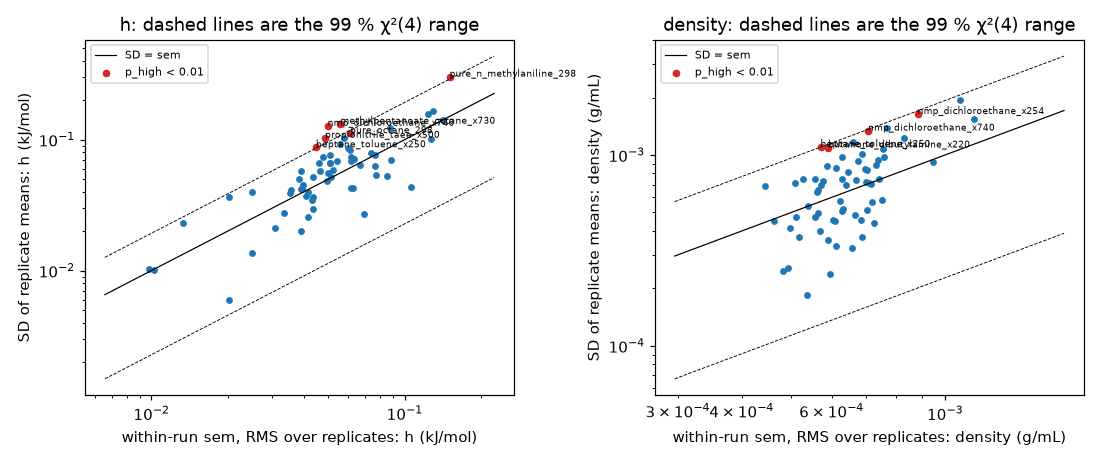
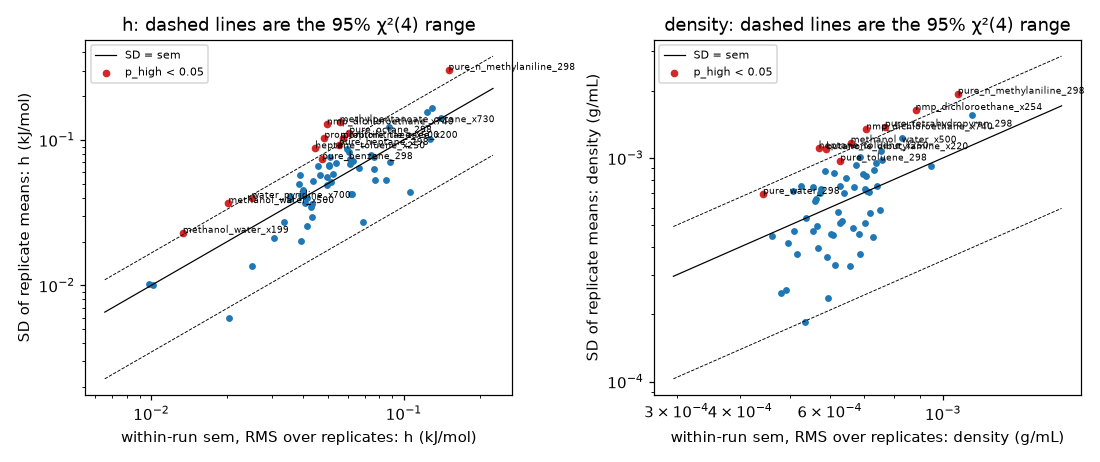
Change flag p to 0.05

diff --git a/src/liquid_mixtures_inputs/summarise_sage.py b/src/liquid_mixtures_inputs/summarise_sage.py
@@ -44,7 +44,7 @@ from ml_peg.analysis.molecular_dynamics.binary_mixtures.mixing import (  # noqa:
 
 EQUILIBRATION_PS = 200.0
 PRODUCTION_PS = 2000.0
-FLAG_P = 0.01
+FLAG_P = 0.05
 START_T = 4.0  # |t| above which replicate 0 is reported as start-dependent
 SAGE_FF = "openff-2.2.1"
 PUBLISHED_X_TOLERANCE = 0.02
@@ -656,8 +656,8 @@ def pooled_ratio(table: pd.DataFrame) -> pd.DataFrame:
                 "median_ratio": float(group.ratio.median()),
                 "pooled_ratio": float(np.sqrt(chi / dof)),
                 "p": float(min(1.0, p)),
-                "n_p01_high": int((group.p_high < 0.01).sum()),
-                "n_p01_low": int((group.p_low < 0.01).sum()),
+                "n_sig_high": int((group.p_high < FLAG_P).sum()),
+                "n_sig_low": int((group.p_low < FLAG_P).sum()),
             }
         )
     return pd.DataFrame(rows)
@@ -704,17 +704,17 @@ def plot_within_between(table: pd.DataFrame, path: Path) -> None:
         lo, hi = data.sem_within.min() / 1.5, data.sem_within.max() * 1.5
         grid = np.geomspace(lo, hi, 50)
         ax.plot(grid, grid, "k-", lw=0.8, label="SD = sem")
-        for q in (0.005, 0.995):
+        for q in (FLAG_P / 2, 1 - FLAG_P / 2):
             factor = np.sqrt(stats.chi2.ppf(q, n - 1) / (n - 1))
             ax.plot(grid, grid * factor, "k--", lw=0.6)
-        flagged = data.p_high < 0.01
+        flagged = data.p_high < FLAG_P
         ax.scatter(data.sem_within[~flagged], data.sd_between[~flagged], s=12)
         ax.scatter(
             data.sem_within[flagged],
             data.sd_between[flagged],
             s=16,
             c="tab:red",
-            label="p_high < 0.01",
+            label=f"p_high < {FLAG_P}",
         )
         for r in data[flagged].itertuples():
             ax.annotate(r.box_id, (r.sem_within, r.sd_between), fontsize=6)
@@ -722,7 +722,7 @@ def plot_within_between(table: pd.DataFrame, path: Path) -> None:
         ax.set_yscale("log")
         ax.set_xlabel(f"within-run sem, RMS over replicates: {unit}")
         ax.set_ylabel(f"SD of replicate means: {unit}")
-        ax.set_title(f"{obs}: dashed lines are the 99 % χ²({n - 1}) range")
+        ax.set_title(f"{obs}: dashed lines are the {1 - FLAG_P:.0%} χ²({n - 1}) range")
         ax.legend(fontsize=7)
     fig.tight_layout()
     fig.savefig(path, dpi=110)
@@ -876,8 +876,13 @@ def inspection_items(runs, summary, finite, run_flags, start, wb, boxes) -> list
         to plot, or ``None`` for a system-level item).
     """
     items = []
-    for r in wb[(wb.flag != "") | (wb.p_high < 0.01)].itertuples():
-        strength = "Holm-significant" if r.flag else "p < 0.01 unadjusted only"
+    mismatch = wb[(wb.flag != "") | (wb.p_high < FLAG_P)]
+    # Holm-significant first, then by unadjusted p (many adjusted p tie at 1)
+    mismatch = mismatch.assign(unflagged=mismatch.flag == "").sort_values(
+        ["unflagged", "p_high"]
+    )
+    for r in mismatch.itertuples():
+        strength = "Holm-significant" if r.flag else f"p < {FLAG_P} unadjusted only"
         items.append(
             {
                 "category": "within/between mismatch",
@@ -1085,25 +1090,28 @@ def interpretation(
         f"{h_ratio:.2f}× the within-run sem for h and {rho_ratio:.2f}× for density "
         f"(1 expected; p = {pooled_box.loc['h', 'p']:.1g} and "
         f"{pooled_box.loc['density', 'p']:.1g}). "
-        f"{pooled_box.loc['h', 'n_p01_high']} (h) and "
-        f"{pooled_box.loc['density', 'n_p01_high']} (density) of "
-        f"{pooled_box.loc['h', 'n_tests']} boxes have p_high < 0.01, against "
-        f"{0.01 * pooled_box.loc['h', 'n_tests']:.1f} expected by chance; none "
-        "is significantly too small. "
-        f"{int((wb.flag != '').sum())} tests remain significant after Holm "
-        "correction. The replicates start from independently built boxes, so "
-        "their spread includes slow modes a single run cannot see. MLIP runs "
-        "are single runs, so their confidence intervals will be narrower than "
-        "the true run-to-run spread by roughly this factor.",
+        f"{pooled_box.loc['h', 'n_sig_high']} (h) and "
+        f"{pooled_box.loc['density', 'n_sig_high']} (density) of "
+        f"{pooled_box.loc['h', 'n_tests']} boxes have p_high < {FLAG_P}, against "
+        f"{FLAG_P * pooled_box.loc['h', 'n_tests']:.1f} expected by chance "
+        "in each; "
+        f"{pooled_box.loc['h', 'n_sig_low']} (h) and "
+        f"{pooled_box.loc['density', 'n_sig_low']} (density) have p_low < "
+        f"{FLAG_P}. "
+        "Tests still significant after Holm correction: "
+        f"{int((wb.flag != '').sum())}. The replicates start from independently "
+        "built boxes, so their spread includes slow modes a single run cannot "
+        "see. MLIP runs are single runs, so their confidence intervals will be "
+        "narrower than the true run-to-run spread by roughly this factor.",
         "",
         "![within vs between](figures/within_between.png)",
         "",
         "| Statistic | Observable | Tests | Median ratio | Pooled ratio | p | "
-        "p_high < 0.01 | p_low < 0.01 |",
+        f"p_high < {FLAG_P} | p_low < {FLAG_P} |",
         "|---|---|---|---|---|---|---|---|",
         *[
             f"| {r.level} | {r.observable} | {r.n_tests} | {r.median_ratio:.2f} | "
-            f"{r.pooled_ratio:.2f} | {r.p:.1g} | {r.n_p01_high} | {r.n_p01_low} |"
+            f"{r.pooled_ratio:.2f} | {r.p:.1g} | {r.n_sig_high} | {r.n_sig_low} |"
             for r in pooled.itertuples()
         ],
         "",
@@ -1112,10 +1120,10 @@ def interpretation(
         f"over the {len(pooled)}, {bonferroni_pass} stay significant at p < "
         f"{FLAG_P}. The per-box and "
         f"per-point tests are two-sided and Holm-corrected together ({len(wb)} "
-        f"tests, flagged at adjusted p < {FLAG_P}). The p_high < 0.01 counts "
+        f"tests, flagged at adjusted p < {FLAG_P}). The p_high < {FLAG_P} counts "
         "above are unadjusted and should be read against the number expected by "
         'chance. Boxes listed under "within/between mismatch" below as '
-        '"p < 0.01 unadjusted only" are places to look, not individually '
+        f'"p < {FLAG_P} unadjusted only" are places to look, not individually '
         "significant results; the evidence that within-run sems are too small "
         "comes from the pooled test.",
         "",

diff --git a/data/sage_summary/sage_report.md b/data/sage_summary/sage_report.md
@@ -4,41 +4,57 @@
 
 320 runs (64 boxes × 5 replicates) finished. Against experiment, Sage's replicate-mean ΔHmix MAE is 0.581 kJ/mol and its mixture density MAE 0.0120 g/mL.
 
-**Within-run vs between-run uncertainty.** Within-run standard errors come from the autocorrelation (Chodera) estimator on every logged sample. Pooled over all boxes, the SD of the replicate means is 1.26× the within-run sem for h and 1.17× for density (1 expected; p = 2e-08 and 0.0002). 6 (h) and 4 (density) of 64 boxes have p_high < 0.01, against 0.6 expected by chance; none is significantly too small. 0 tests remain significant after Holm correction. The replicates start from independently built boxes, so their spread includes slow modes a single run cannot see. MLIP runs are single runs, so their confidence intervals will be narrower than the true run-to-run spread by roughly this factor.
+**Within-run vs between-run uncertainty.** Within-run standard errors come from the autocorrelation (Chodera) estimator on every logged sample. Pooled over all boxes, the SD of the replicate means is 1.26× the within-run sem for h and 1.17× for density (1 expected; p = 2e-08 and 0.0002). 12 (h) and 9 (density) of 64 boxes have p_high < 0.05, against 3.2 expected by chance in each; 3 (h) and 2 (density) have p_low < 0.05. Tests still significant after Holm correction: 1. The replicates start from independently built boxes, so their spread includes slow modes a single run cannot see. MLIP runs are single runs, so their confidence intervals will be narrower than the true run-to-run spread by roughly this factor.
 
 ![within vs between](figures/within_between.png)
 
-| Statistic | Observable | Tests | Median ratio | Pooled ratio | p | p_high < 0.01 | p_low < 0.01 |
+| Statistic | Observable | Tests | Median ratio | Pooled ratio | p | p_high < 0.05 | p_low < 0.05 |
 |---|---|---|---|---|---|---|---|
-| box | h | 64 | 1.11 | 1.26 | 2e-08 | 6 | 0 |
-| box | density | 64 | 1.06 | 1.17 | 0.0002 | 4 | 0 |
-| point | hmix | 39 | 1.08 | 1.20 | 0.0005 | 4 | 0 |
-| point | vex | 39 | 0.90 | 0.96 | 0.6 | 0 | 1 |
+| box | h | 64 | 1.11 | 1.26 | 2e-08 | 12 | 3 |
+| box | density | 64 | 1.06 | 1.17 | 0.0002 | 9 | 2 |
+| point | hmix | 39 | 1.08 | 1.20 | 0.0005 | 6 | 2 |
+| point | vex | 39 | 0.90 | 0.96 | 0.6 | 3 | 5 |
 
-**Multiple testing.** The pooled ratios are one test per row of the table (4 tests, uncorrected). With a Bonferroni correction over the 4, box h, box density, point hmix stay significant at p < 0.01. The per-box and per-point tests are two-sided and Holm-corrected together (206 tests, flagged at adjusted p < 0.01). The p_high < 0.01 counts above are unadjusted and should be read against the number expected by chance. Boxes listed under "within/between mismatch" below as "p < 0.01 unadjusted only" are places to look, not individually significant results; the evidence that within-run sems are too small comes from the pooled test.
+**Multiple testing.** The pooled ratios are one test per row of the table (4 tests, uncorrected). With a Bonferroni correction over the 4, box h, box density, point hmix stay significant at p < 0.05. The per-box and per-point tests are two-sided and Holm-corrected together (206 tests, flagged at adjusted p < 0.05). The p_high < 0.05 counts above are unadjusted and should be read against the number expected by chance. Boxes listed under "within/between mismatch" below as "p < 0.05 unadjusted only" are places to look, not individually significant results; the evidence that within-run sems are too small comes from the pooled test.
 
-**37 boxes or systems to inspect** (50 items). Categories are in rough order of concern for the benchmark.
+**43 boxes or systems to inspect** (66 items). Categories are in rough order of concern for the benchmark.
 
-### within/between mismatch (14)
+### within/between mismatch (30)
 
 Replicates (independently built boxes) scatter more than the within-run standard errors allow. Likely a slow mode (conformers, local structure) that one 2 ns run does not sample, so a single run's CI is too narrow here. Check the replicate time series for offsets that persist all run. Entries marked "unadjusted only" do not survive Holm correction.
 
 | Box / system | Evidence | Plots |
 |---|---|---|
-| butanone_dibutylamine_x220 | density: replicate SD 1.9× the within-run sem (p_high = 0.008, p < 0.01 unadjusted only) | [replicates](figures/replicates/butanone_dibutylamine_x220.png), [convergence](figures/convergence/butanone_dibutylamine_x220.png) |
-| heptane_toluene_x250 | h: replicate SD 2.0× the within-run sem (p_high = 0.004, p < 0.01 unadjusted only) | [replicates](figures/replicates/heptane_toluene_x250.png), [convergence](figures/convergence/heptane_toluene_x250.png) |
-| heptane_toluene_x250 | density: replicate SD 1.9× the within-run sem (p_high = 0.005, p < 0.01 unadjusted only) | [replicates](figures/replicates/heptane_toluene_x250.png), [convergence](figures/convergence/heptane_toluene_x250.png) |
-| methylpentanoate_octane_x730 | h: replicate SD 2.4× the within-run sem (p_high = 0.0002, p < 0.01 unadjusted only) | [replicates](figures/replicates/methylpentanoate_octane_x730.png), [convergence](figures/convergence/methylpentanoate_octane_x730.png) |
-| nmp_dichloroethane_x254 | density: replicate SD 1.9× the within-run sem (p_high = 0.008, p < 0.01 unadjusted only) | [replicates](figures/replicates/nmp_dichloroethane_x254.png), [convergence](figures/convergence/nmp_dichloroethane_x254.png) |
-| nmp_dichloroethane_x740 | h: replicate SD 2.6× the within-run sem (p_high = 3e-05, p < 0.01 unadjusted only) | [replicates](figures/replicates/nmp_dichloroethane_x740.png), [convergence](figures/convergence/nmp_dichloroethane_x740.png) |
-| nmp_dichloroethane_x740 | density: replicate SD 1.9× the within-run sem (p_high = 0.006, p < 0.01 unadjusted only) | [replicates](figures/replicates/nmp_dichloroethane_x740.png), [convergence](figures/convergence/nmp_dichloroethane_x740.png) |
-| propionitrile_taee_x500 | h: replicate SD 2.1× the within-run sem (p_high = 0.001, p < 0.01 unadjusted only) | [replicates](figures/replicates/propionitrile_taee_x500.png), [convergence](figures/convergence/propionitrile_taee_x500.png) |
-| pure_n_methylaniline_298 | h: replicate SD 2.0× the within-run sem (p_high = 0.003, p < 0.01 unadjusted only) | [replicates](figures/replicates/pure_n_methylaniline_298.png), [convergence](figures/convergence/pure_n_methylaniline_298.png) |
-| pure_octane_298 | h: replicate SD 1.8× the within-run sem (p_high = 0.009, p < 0.01 unadjusted only) | [replicates](figures/replicates/pure_octane_298.png), [convergence](figures/convergence/pure_octane_298.png) |
-| heptane_toluene_x750 | hmix: replicate SD 1.9× the within-run sem (p_high = 0.005, p < 0.01 unadjusted only) | [replicates](figures/replicates/heptane_toluene_x750.png), [convergence](figures/convergence/heptane_toluene_x750.png) |
-| methylpentanoate_octane_x230 | hmix: replicate SD 1.9× the within-run sem (p_high = 0.007, p < 0.01 unadjusted only) | [replicates](figures/replicates/methylpentanoate_octane_x230.png), [convergence](figures/convergence/methylpentanoate_octane_x230.png) |
-| methylpentanoate_octane_x490 | hmix: replicate SD 2.1× the within-run sem (p_high = 0.001, p < 0.01 unadjusted only) | [replicates](figures/replicates/methylpentanoate_octane_x490.png), [convergence](figures/convergence/methylpentanoate_octane_x490.png) |
-| nmp_dichloroethane_x740 | hmix: replicate SD 2.1× the within-run sem (p_high = 0.002, p < 0.01 unadjusted only) | [replicates](figures/replicates/nmp_dichloroethane_x740.png), [convergence](figures/convergence/nmp_dichloroethane_x740.png) |
+| nmp_dichloroethane_x740 | h: replicate SD 2.6× the within-run sem (p_high = 3e-05, Holm-significant) | [replicates](figures/replicates/nmp_dichloroethane_x740.png), [convergence](figures/convergence/nmp_dichloroethane_x740.png) |
+| methylpentanoate_octane_x730 | h: replicate SD 2.4× the within-run sem (p_high = 0.0002, p < 0.05 unadjusted only) | [replicates](figures/replicates/methylpentanoate_octane_x730.png), [convergence](figures/convergence/methylpentanoate_octane_x730.png) |
+| methylpentanoate_octane_x490 | hmix: replicate SD 2.1× the within-run sem (p_high = 0.001, p < 0.05 unadjusted only) | [replicates](figures/replicates/methylpentanoate_octane_x490.png), [convergence](figures/convergence/methylpentanoate_octane_x490.png) |
+| propionitrile_taee_x500 | h: replicate SD 2.1× the within-run sem (p_high = 0.001, p < 0.05 unadjusted only) | [replicates](figures/replicates/propionitrile_taee_x500.png), [convergence](figures/convergence/propionitrile_taee_x500.png) |
+| nmp_dichloroethane_x740 | hmix: replicate SD 2.1× the within-run sem (p_high = 0.002, p < 0.05 unadjusted only) | [replicates](figures/replicates/nmp_dichloroethane_x740.png), [convergence](figures/convergence/nmp_dichloroethane_x740.png) |
+| pure_n_methylaniline_298 | h: replicate SD 2.0× the within-run sem (p_high = 0.003, p < 0.05 unadjusted only) | [replicates](figures/replicates/pure_n_methylaniline_298.png), [convergence](figures/convergence/pure_n_methylaniline_298.png) |
+| heptane_toluene_x250 | h: replicate SD 2.0× the within-run sem (p_high = 0.004, p < 0.05 unadjusted only) | [replicates](figures/replicates/heptane_toluene_x250.png), [convergence](figures/convergence/heptane_toluene_x250.png) |
+| heptane_toluene_x250 | density: replicate SD 1.9× the within-run sem (p_high = 0.005, p < 0.05 unadjusted only) | [replicates](figures/replicates/heptane_toluene_x250.png), [convergence](figures/convergence/heptane_toluene_x250.png) |
+| heptane_toluene_x750 | hmix: replicate SD 1.9× the within-run sem (p_high = 0.005, p < 0.05 unadjusted only) | [replicates](figures/replicates/heptane_toluene_x750.png), [convergence](figures/convergence/heptane_toluene_x750.png) |
+| nmp_dichloroethane_x740 | density: replicate SD 1.9× the within-run sem (p_high = 0.006, p < 0.05 unadjusted only) | [replicates](figures/replicates/nmp_dichloroethane_x740.png), [convergence](figures/convergence/nmp_dichloroethane_x740.png) |
+| methylpentanoate_octane_x230 | hmix: replicate SD 1.9× the within-run sem (p_high = 0.007, p < 0.05 unadjusted only) | [replicates](figures/replicates/methylpentanoate_octane_x230.png), [convergence](figures/convergence/methylpentanoate_octane_x230.png) |
+| nmp_dichloroethane_x254 | density: replicate SD 1.9× the within-run sem (p_high = 0.008, p < 0.05 unadjusted only) | [replicates](figures/replicates/nmp_dichloroethane_x254.png), [convergence](figures/convergence/nmp_dichloroethane_x254.png) |
+| butanone_dibutylamine_x220 | density: replicate SD 1.9× the within-run sem (p_high = 0.008, p < 0.05 unadjusted only) | [replicates](figures/replicates/butanone_dibutylamine_x220.png), [convergence](figures/convergence/butanone_dibutylamine_x220.png) |
+| pure_octane_298 | h: replicate SD 1.8× the within-run sem (p_high = 0.009, p < 0.05 unadjusted only) | [replicates](figures/replicates/pure_octane_298.png), [convergence](figures/convergence/pure_octane_298.png) |
+| methanol_water_x500 | h: replicate SD 1.8× the within-run sem (p_high = 0.01, p < 0.05 unadjusted only) | [replicates](figures/replicates/methanol_water_x500.png), [convergence](figures/convergence/methanol_water_x500.png) |
+| pure_n_methylaniline_298 | density: replicate SD 1.8× the within-run sem (p_high = 0.01, p < 0.05 unadjusted only) | [replicates](figures/replicates/pure_n_methylaniline_298.png), [convergence](figures/convergence/pure_n_methylaniline_298.png) |
+| propionitrile_taee_x200 | h: replicate SD 1.8× the within-run sem (p_high = 0.01, p < 0.05 unadjusted only) | [replicates](figures/replicates/propionitrile_taee_x200.png), [convergence](figures/convergence/propionitrile_taee_x200.png) |
+| pure_tetrahydropyran_298 | density: replicate SD 1.8× the within-run sem (p_high = 0.01, p < 0.05 unadjusted only) | [replicates](figures/replicates/pure_tetrahydropyran_298.png), [convergence](figures/convergence/pure_tetrahydropyran_298.png) |
+| methanol_water_x500 | density: replicate SD 1.8× the within-run sem (p_high = 0.01, p < 0.05 unadjusted only) | [replicates](figures/replicates/methanol_water_x500.png), [convergence](figures/convergence/methanol_water_x500.png) |
+| propionitrile_taee_x500 | hmix: replicate SD 1.7× the within-run sem (p_high = 0.02, p < 0.05 unadjusted only) | [replicates](figures/replicates/propionitrile_taee_x500.png), [convergence](figures/convergence/propionitrile_taee_x500.png) |
+| methanol_water_x199 | h: replicate SD 1.7× the within-run sem (p_high = 0.02, p < 0.05 unadjusted only) | [replicates](figures/replicates/methanol_water_x199.png), [convergence](figures/convergence/methanol_water_x199.png) |
+| nmp_dichloroethane_x740 | vex: replicate SD 1.7× the within-run sem (p_high = 0.02, p < 0.05 unadjusted only) | [replicates](figures/replicates/nmp_dichloroethane_x740.png), [convergence](figures/convergence/nmp_dichloroethane_x740.png) |
+| pure_heptane_298 | h: replicate SD 1.7× the within-run sem (p_high = 0.03, p < 0.05 unadjusted only) | [replicates](figures/replicates/pure_heptane_298.png), [convergence](figures/convergence/pure_heptane_298.png) |
+| propionitrile_taee_x200 | vex: replicate SD 1.6× the within-run sem (p_high = 0.03, p < 0.05 unadjusted only) | [replicates](figures/replicates/propionitrile_taee_x200.png), [convergence](figures/convergence/propionitrile_taee_x200.png) |
+| nmp_dichloroethane_x254 | vex: replicate SD 1.6× the within-run sem (p_high = 0.03, p < 0.05 unadjusted only) | [replicates](figures/replicates/nmp_dichloroethane_x254.png), [convergence](figures/convergence/nmp_dichloroethane_x254.png) |
+| water_pyridine_x700 | h: replicate SD 1.6× the within-run sem (p_high = 0.04, p < 0.05 unadjusted only) | [replicates](figures/replicates/water_pyridine_x700.png), [convergence](figures/convergence/water_pyridine_x700.png) |
+| pure_water_298 | density: replicate SD 1.6× the within-run sem (p_high = 0.05, p < 0.05 unadjusted only) | [replicates](figures/replicates/pure_water_298.png), [convergence](figures/convergence/pure_water_298.png) |
+| pure_benzene_298 | h: replicate SD 1.6× the within-run sem (p_high = 0.05, p < 0.05 unadjusted only) | [replicates](figures/replicates/pure_benzene_298.png), [convergence](figures/convergence/pure_benzene_298.png) |
+| water_pyridine_x700 | hmix: replicate SD 1.6× the within-run sem (p_high = 0.05, p < 0.05 unadjusted only) | [replicates](figures/replicates/water_pyridine_x700.png), [convergence](figures/convergence/water_pyridine_x700.png) |
+| pure_toluene_298 | density: replicate SD 1.5× the within-run sem (p_high = 0.05, p < 0.05 unadjusted only) | [replicates](figures/replicates/pure_toluene_298.png), [convergence](figures/convergence/pure_toluene_298.png) |
 
 ### low sampling (5)
 
@@ -254,7 +270,7 @@ Matched points within |Δx| ≤ 0.02: 52. The nearest published value is shifted
 - Correlation time of h (production / n_eff): median 3.6 ps; minimum n_eff 39 (below 100: 9 runs).
 - Block-average sem / autocorrelation sem: median 1.00 (h), 0.95 (density).
 - Density shift of the first production block (200–400 ps) relative to the rest: median 0.00169, max 0.01166 g/mL.
-- Drift and half-split tests flagged after Holm correction (p < 0.01): 0.
+- Drift and half-split tests flagged after Holm correction (p < 0.05): 0.
 
 
 ### Start dependence (replicate 0 vs re-packed replicates)

diff --git a/DECISIONS.md b/DECISIONS.md
@@ -100,6 +100,7 @@ Known gaps, accepted and stated in the report: there is no N-H (secondary) amide
 | 2026-10-22 | One estimator for Sage and the MLIPs (ml-peg's `timeseries.py`, applied after 1 ps binning), replacing pymbar. Sage is shown as a plot trace, not a table row. | User (recommended options) | Sage and MLIP uncertainties become directly comparable. |
 | 2026-10-22 | Changing the estimator to close the within- vs between-run gap (within-run sem about 20 to 25 % low on average) is left to the user. | User | Not yet decided. |
 | 2026-10-23 | Drop the 1 ps binning: Chodera is applied to every logged sample. | User ("Skip the binning for the sake of simplicity") | Over the 320 Sage runs, the raw sem / binned sem has a median of 1.00 (h and density). Only 5 % (h) and 2 % (density) of runs are more than 10 % lower, worst 0.67. The pooled replicate SD / within-run sem changes from 1.24 to 1.26 (h) and 1.21 to 1.22 (density). Not checked at the 10 fs MLIP logging interval. |
+| 2026-10-23 | Significance threshold `FLAG_P` raised from 0.01 to 0.05 (Holm-adjusted for per-box tests, Bonferroni over the 4 pooled tests). The hard-coded 0.01 in the within/between counts, plot and inspection list now follow `FLAG_P`. | User ("make that change", recommended option) | 0.05 family-wise is the conventional level and still conservative after Holm. NMP + DCE x=0.74 (h) becomes Holm-significant; the pooled conclusions are unchanged. |
 
 ## 8. Open questions
 
